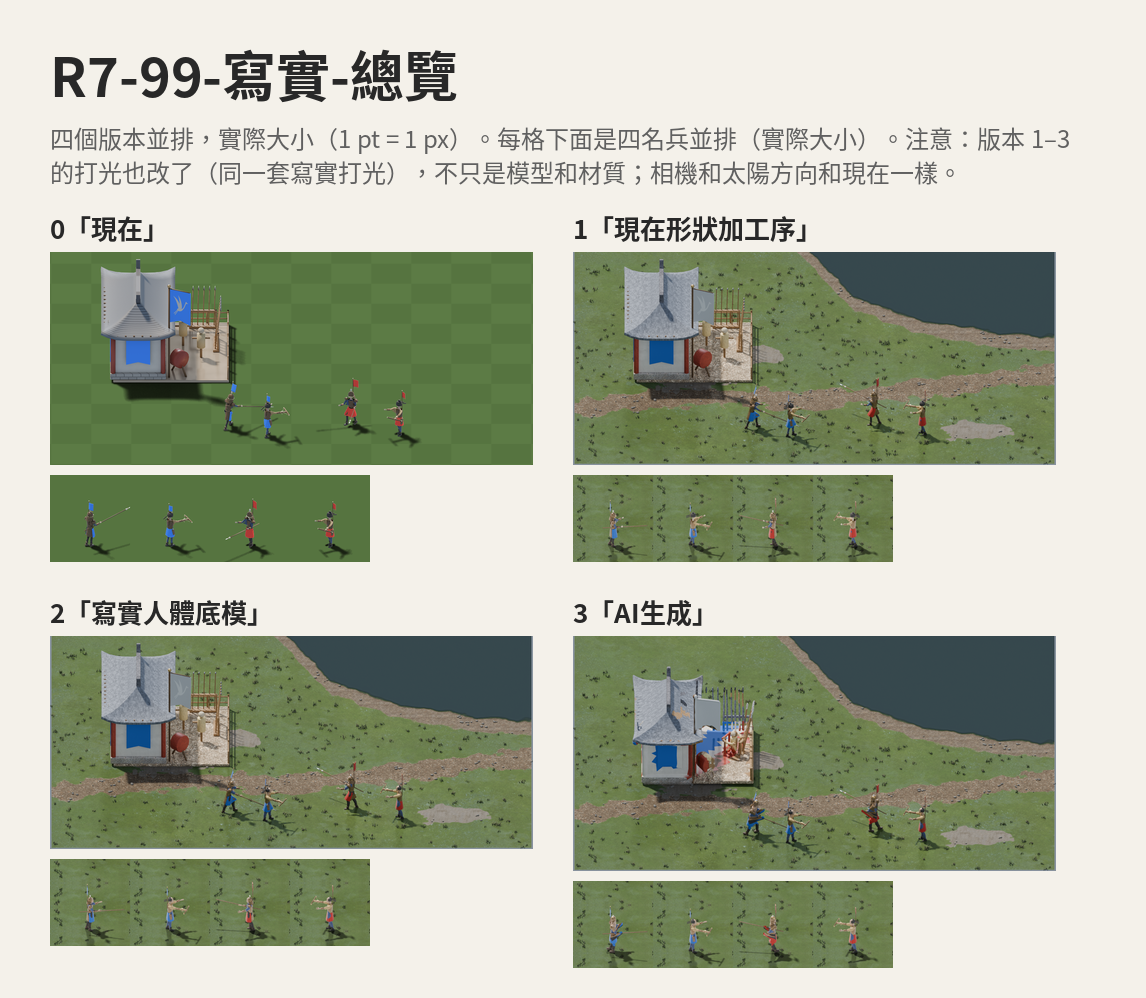
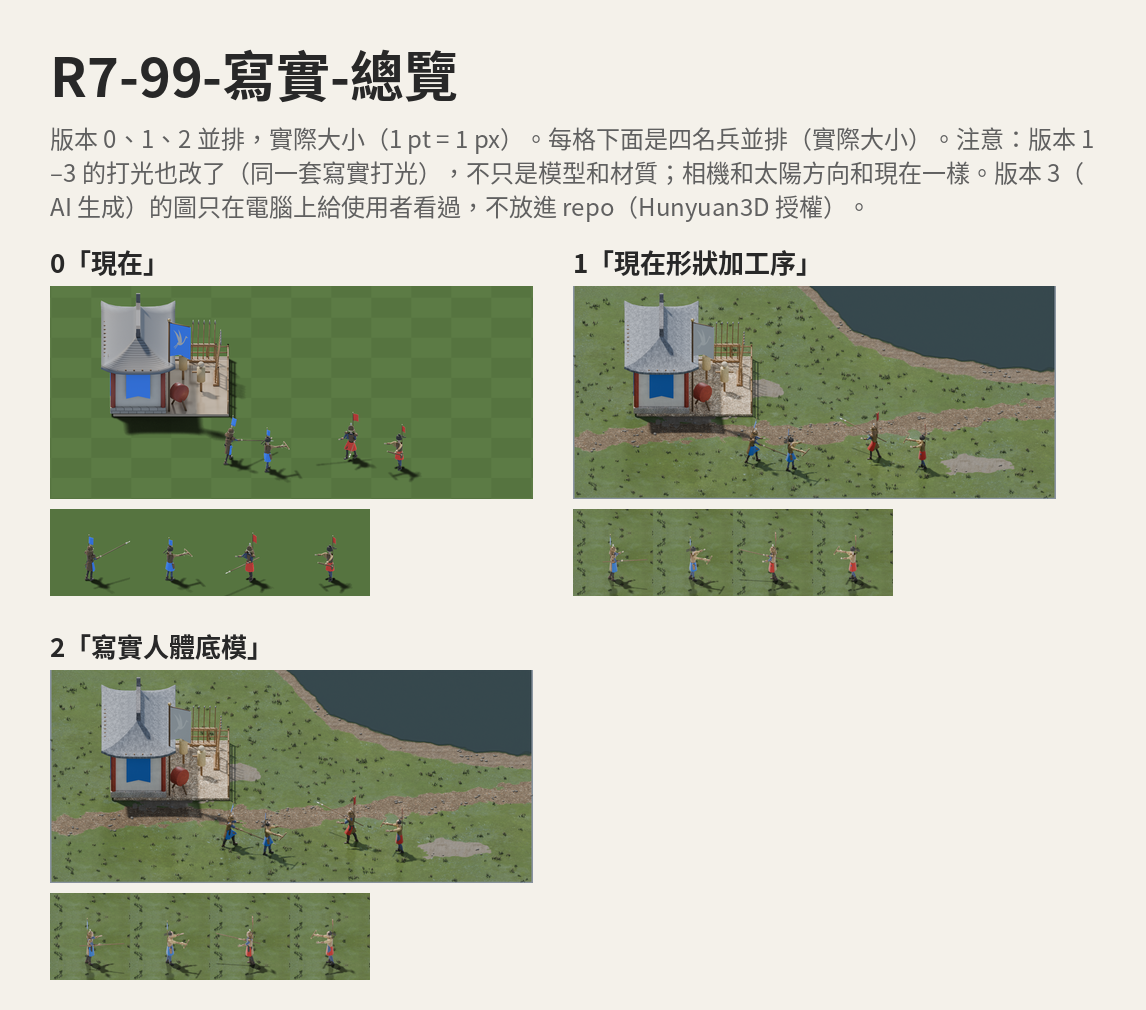
R7：版本 3（Hunyuan3D 生成物）的比較圖移出 repo（公開 repo 等於散布，授權 1(l)、5(c)）；總覽只放版本 0–2；之後版本 3 的圖只存在 build/private；README 與 THIRD_PARTY_NOTICES 寫明

diff --git a/THIRD_PARTY_NOTICES.md b/THIRD_PARTY_NOTICES.md
@@ -19,4 +19,4 @@ MPFB 的程式本身是 GPLv3。我們只在 Blender 裡把它當工具用，沒
 |---|---|---|---|---|
 | Tencent Hunyuan3D 2.1（Hugging Face 公開試用頁，不登入） | R7 版本 3：從我們自己算的概念圖生成模型，只做比較測試 | Tencent Hunyuan 3D 2.1 Community License：<br>• Tencent 對生成物不主張權利（6(d)）<br>• 歐盟、英國、南韓不適用，在那裡使用生成物不在授權範圍內（1(l)、5(c)）<br>• 月活躍用戶超過 100 萬要另外向 Tencent 申請（4）<br>• 不能用來改進其他 AI 模型（5(b)） | https://huggingface.co/tencent/Hunyuan3D-2.1/blob/main/LICENSE | 2026-10-20 |
 
-正式量產不會用 Hunyuan3D。它的生成物不放進任何 Release，包括 `style-test-1`。
+正式量產不會用 Hunyuan3D。它的生成物不放進任何 Release，用生成物算出來的比較圖也不放進這個 repo；使用者已經在電腦上看過。
